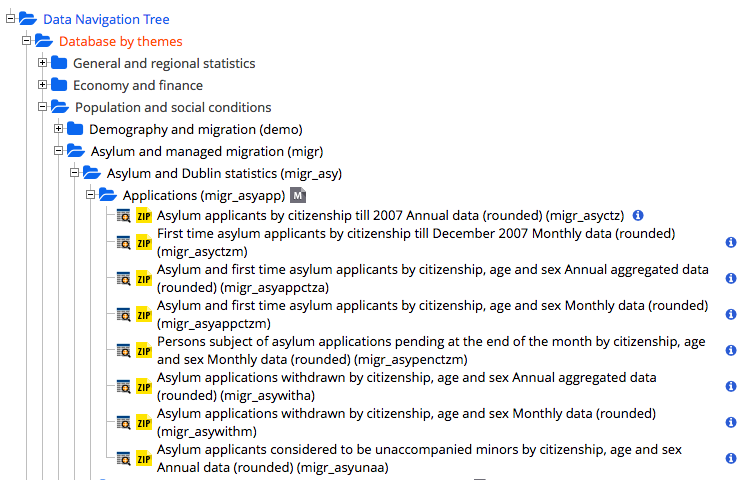
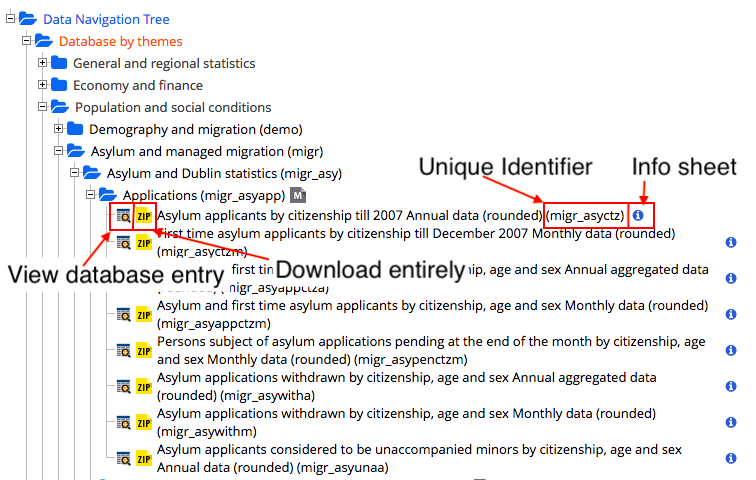
How to find and navigate EU data

diff --git a/ddj-data-sources.md b/ddj-data-sources.md
@@ -41,7 +41,7 @@ With his newsletter [Data is Plural](https://tinyletter.com/data-is-plural) data
 
 When it comes to data concerning the member states of the European Union, there are two main databases you should know.
 
-My first go-to place is the [Eurostat database](http://ec.europa.eu/eurostat/data/database)
+My first go-to place is the [**Eurostat database**](http://ec.europa.eu/eurostat/data/database)
 
 Note that it has two different sections, the upper part containing links to the actual databases, whereas the lower part contains tables that are aggregates of the upper part and lack an overview of what more indicators are possibly listed in the dataset. 
 
@@ -51,22 +51,32 @@ So I always would suggest to use the database-part. This part is sorted by theme
 
 ![](img/Eurostat-Tree-dropdowns.png)
 
-On the lowest level, each entry has a little table icon and a yellow zip icon in the front, and a blue info icon at the end. If you click on the latter you get an overview of the timespan covered and info when it was last updated. At the end of each title you have in parenthesis the unique identifier for this dataset, that's crucial to trace it back.
+At the very bottom of the tree, there are two important dropdowns
+"Newly added datasets" and "Recently updated datasets". I guess both titles are self-explanatory.
+
+![](Eurostat-Tree-bottom.png)
+
+If you clicked on as many plus signs as possible down to the lowest level, each entry has a little table icon and a yellow zip icon in the front, and a blue info icon at the end. If you click on the latter you get an info sheet with an overview of the timespan covered and info when it was last updated. At the end of each title you have in parenthesis the unique identifier for this dataset, that's crucial to trace it back.
 If you click on the first table icon, you are redirected to the database entry. 
 
-At the very bottom of the tree, there are two important dropdowns
-"Newly added datasets"
-and 
-"Recently updated datasets"
-I guess both titles are self-explanatory.
+![](Eurostat-Tree-LowestLevel.png)
+
+When you are in an entry, there are several important elements. 1) The unique identifier that you should keep track of to refind your dataset. 2) Information on when this dataset was last updated. 3) The URL that contains the unique identifier and allows you to refind the table 4) Metadata, containing detailed information on definitions and possible breaks in time series for example. 5) Plus signs that allow you to add more data from the database to your selection 6) the download area, once you have selected all the data you need.
+
+![](Eurostat-Database-entry.png)
+
+Within the entry, only a selection of what is in the database is displayed to you. If you click on the download button, only variables that are contained in the dropdowns are downloaded. If you want to add more, you can click on any of the plus signs and you'll be transferred to the updating dialogue, where you see what all the possible data are that you can get -- (7) tick the boxes of the variables you want to be contained in your download. You can use the tabs (8) to navigate through the other parameters and their variables without leaving this dialogue overlay. When the font in the header area (9) turns read you have selected more variables than can be downloaded at one time. Click (10) the update button to refresh the table with all your newly selected variables.
+
+![](Eurostat-Change-Selection.png)
+
 
 There's an API you can use to query the database, you can find more information [here](http://ec.europa.eu/eurostat/web/sdmx-web-services/rest-sdmx-2.1)
 
-Alternatively, you could also build a request/post or selenium scraper that runs regularly, as the URLs for each database entry are structured similarly. You just have to replace the unique identifier after "dataset=" in the url
+Alternatively, you could also build a request/post or selenium scraper that runs regularly, as the URLs for each database entry are structured similarly. You just have to replace the unique identifier after `dataset=` in the url
 
-http://appsso.eurostat.ec.europa.eu/nui/show.do?dataset=migr_asyctz&lang=en
+`http://appsso.eurostat.ec.europa.eu/nui/show.do?dataset=migr_asyctz&lang=en`
 
-Other than Eurostat, the second important database is the [EU Open Data Portal](http://data.europa.eu/euodp/en/data). It pulls data from Eurostat, but also datasets from other EU agencies. Contrary to the above Eurostat tree of datasets, here you have to know a search term to look for (apart from things like 'most popular' for example)
+Other than the Eurostat database, the second important database is the [**EU Open Data Portal**](http://data.europa.eu/euodp/en/data). It pulls data from Eurostat, but also datasets from other EU agencies. Contrary to the above Eurostat tree of datasets, here you have to know a search term to look for (apart from things like 'most popular' for example)
 
 This one too has an API to query the database, you can find information on how to do that [here](http://data.europa.eu/euodp/en/developerscorner)
 
